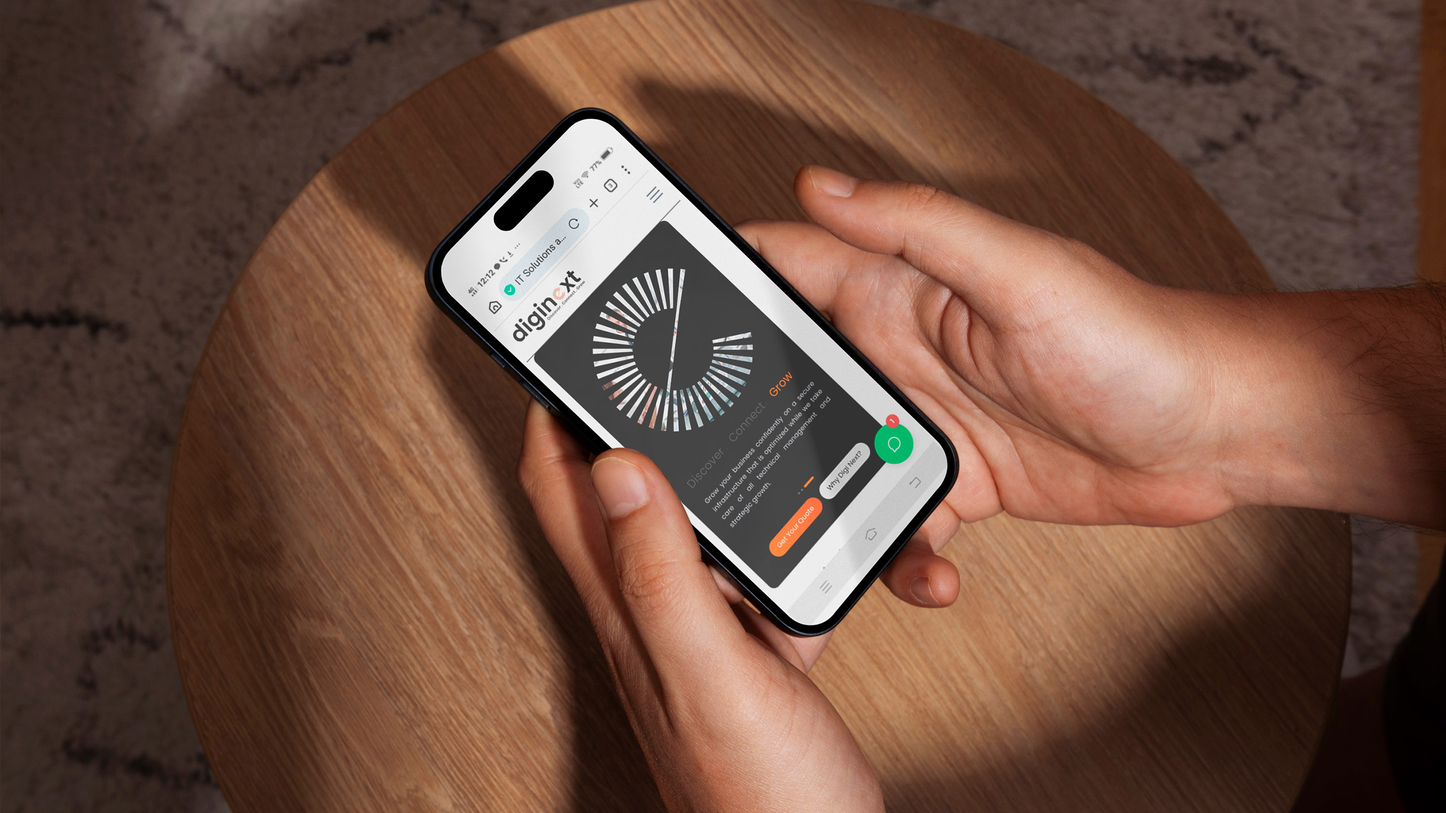
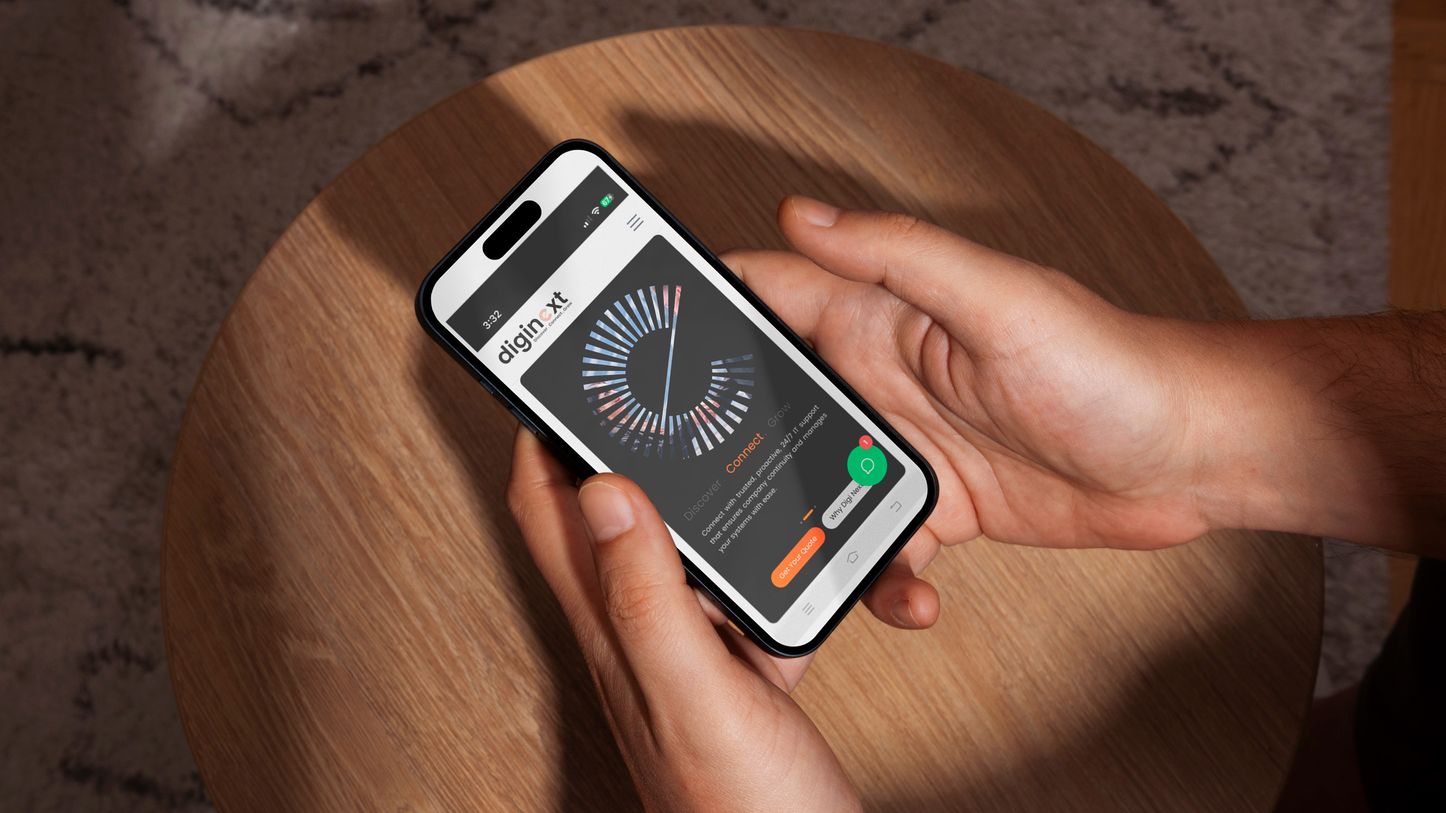
site map changes

diff --git a/src/components/sections/ourWorks/ChallengesSection.tsx b/src/components/sections/ourWorks/ChallengesSection.tsx
@@ -34,10 +34,10 @@ const ChallengesSection = ({
             src={backgroundImage}
             alt="Customer Journey"
             className="w-full h-full object-cover"
-            width={200}
-            height={200}
+            width={1000}
+            height={1000}
           />
-          <div className="absolute inset-0 bg-gradient-to-r from-orange-500/40 to-transparent flex items-center px-8">
+          <div className="absolute inset-0  flex items-center px-8">
             <h3 className="text-2xl sm:text-3xl font-light text-white">
               Customer&apos;s Journey
             </h3>

diff --git a/src/components/sections/ourWorks/UXDesignSection.tsx b/src/components/sections/ourWorks/UXDesignSection.tsx
@@ -45,7 +45,7 @@ const UXDesignSection = ({
       />
 
       {/* Dark Overlay */}
-      <div className="absolute inset-0 bg-black/50" />
+      <div className="absolute inset-0 bg-black/30" />
 
       {/* Content */}
       <div className="relative z-10 max-w-7xl mx-auto">

diff --git a/next-sitemap.config.js b/next-sitemap.config.js
@@ -1,0 +1,7 @@
+module.exports = {
+  siteUrl: 'https://www.diginext.ae/',
+  generateRobotsTxt: true,
+  sitemapSize: 5000,
+  changefreq: 'weekly',
+  priority: 0.7,
+}
